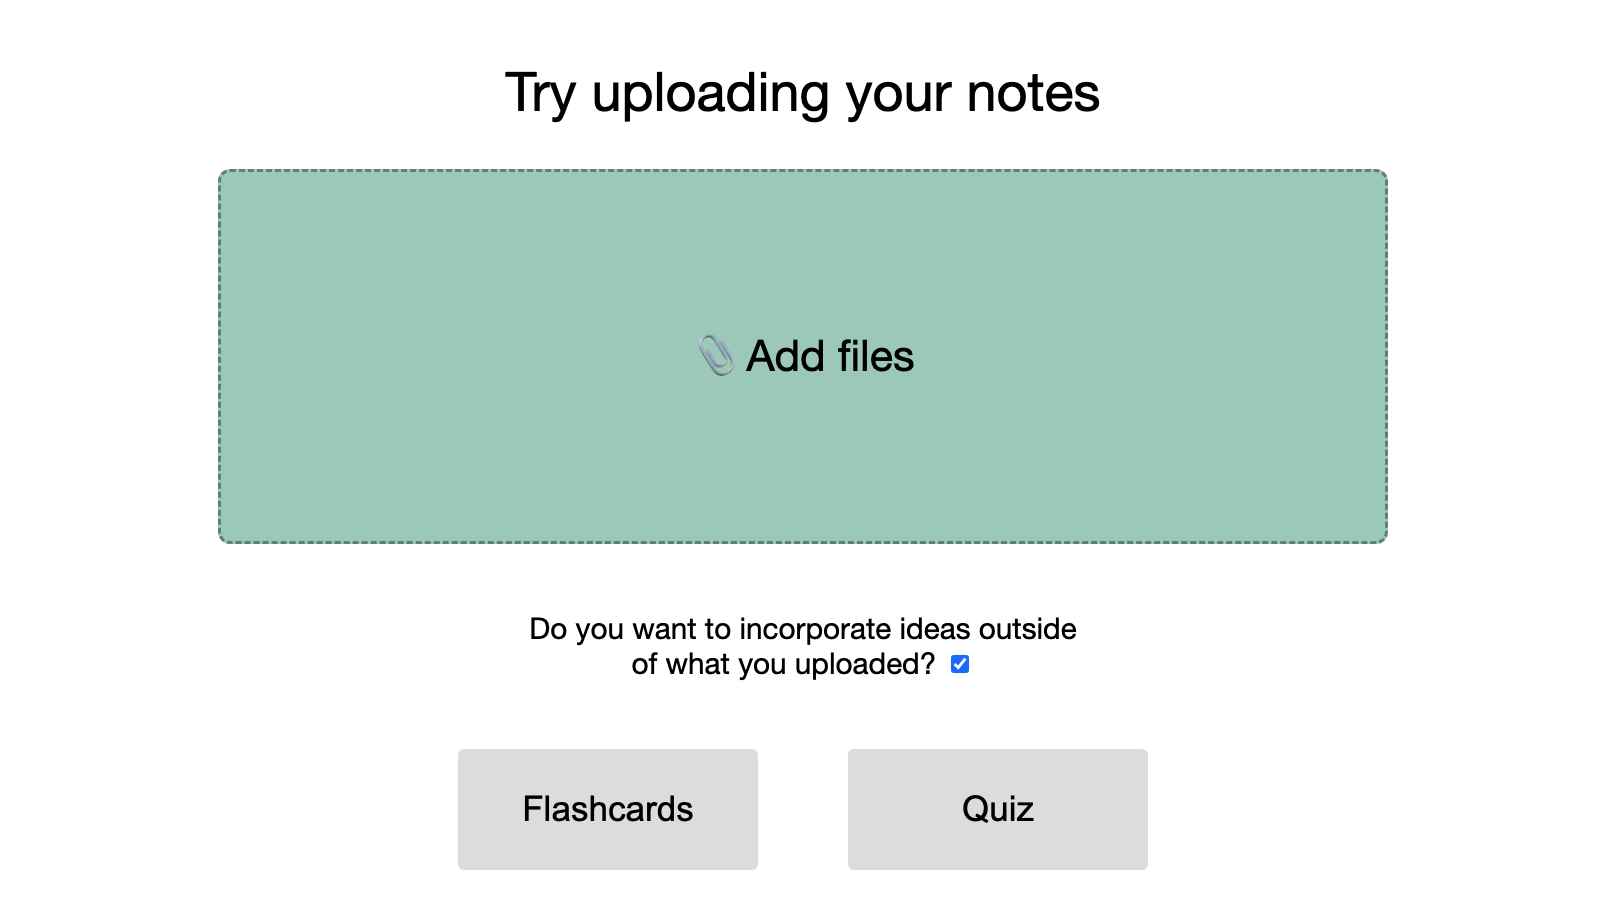
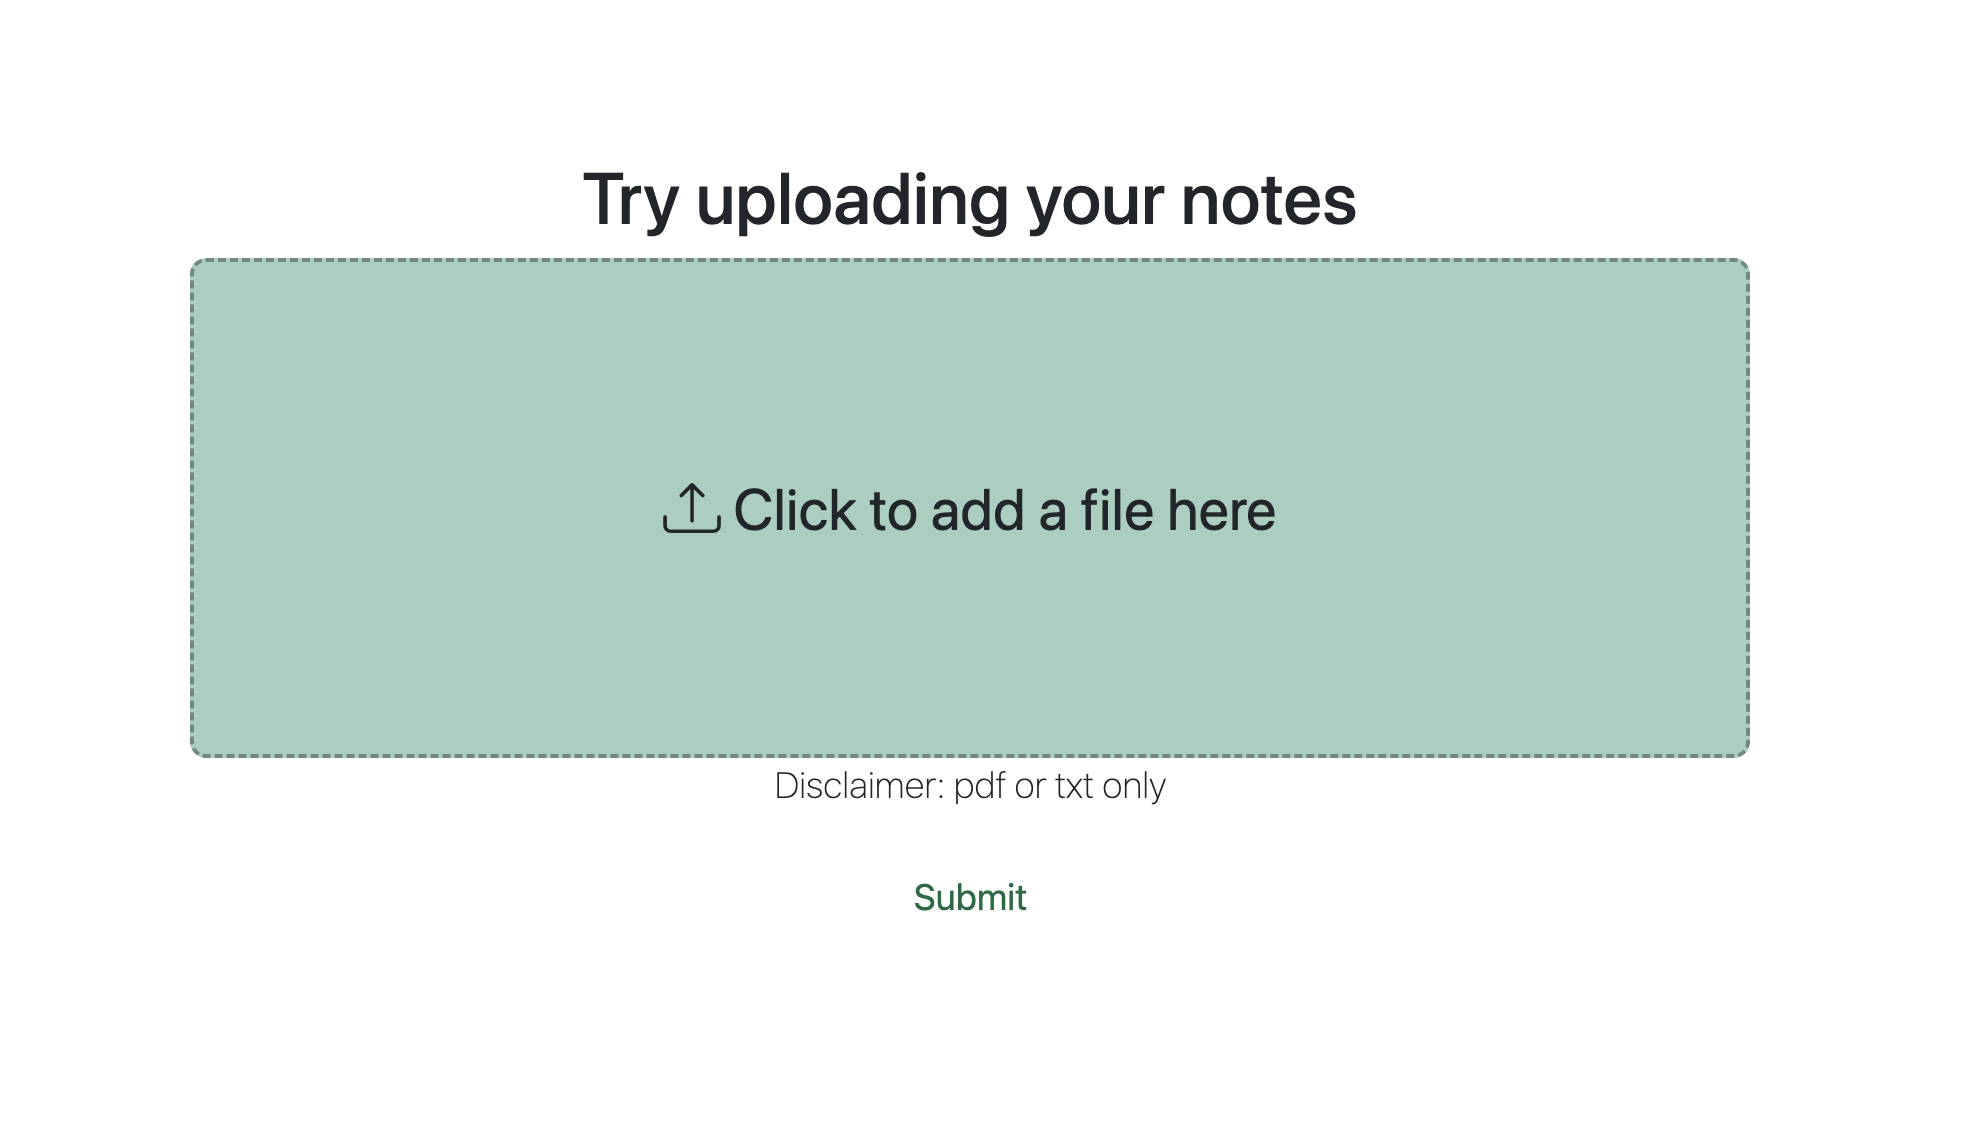
updated the landing page ui with bootstrap and updated old images

Changed region(s): [[0.0927, 0.0611, 0.8962, 0.7328], [0.2781, 0.7939, 0.7108, 0.9466], [0.3399, 0.3664, 0.6489, 0.4885]]

diff --git a/src/main/resources/static/landing.css b/src/main/resources/static/landing.css
@@ -162,3 +162,14 @@ button:active {
   background-color: #0e5734; /* Slightly darker */
   box-shadow: 0 2px 6px rgba(0,0,0,0.12) inset;
 }
+
+
+.nav-color{
+  border: 2px solid #106b41;
+  border-radius: 8px;
+  background-color: #fff;
+}
+.nav-item .nav-link{
+  color: #106b41 !important;
+  cursor: pointer;
+}
